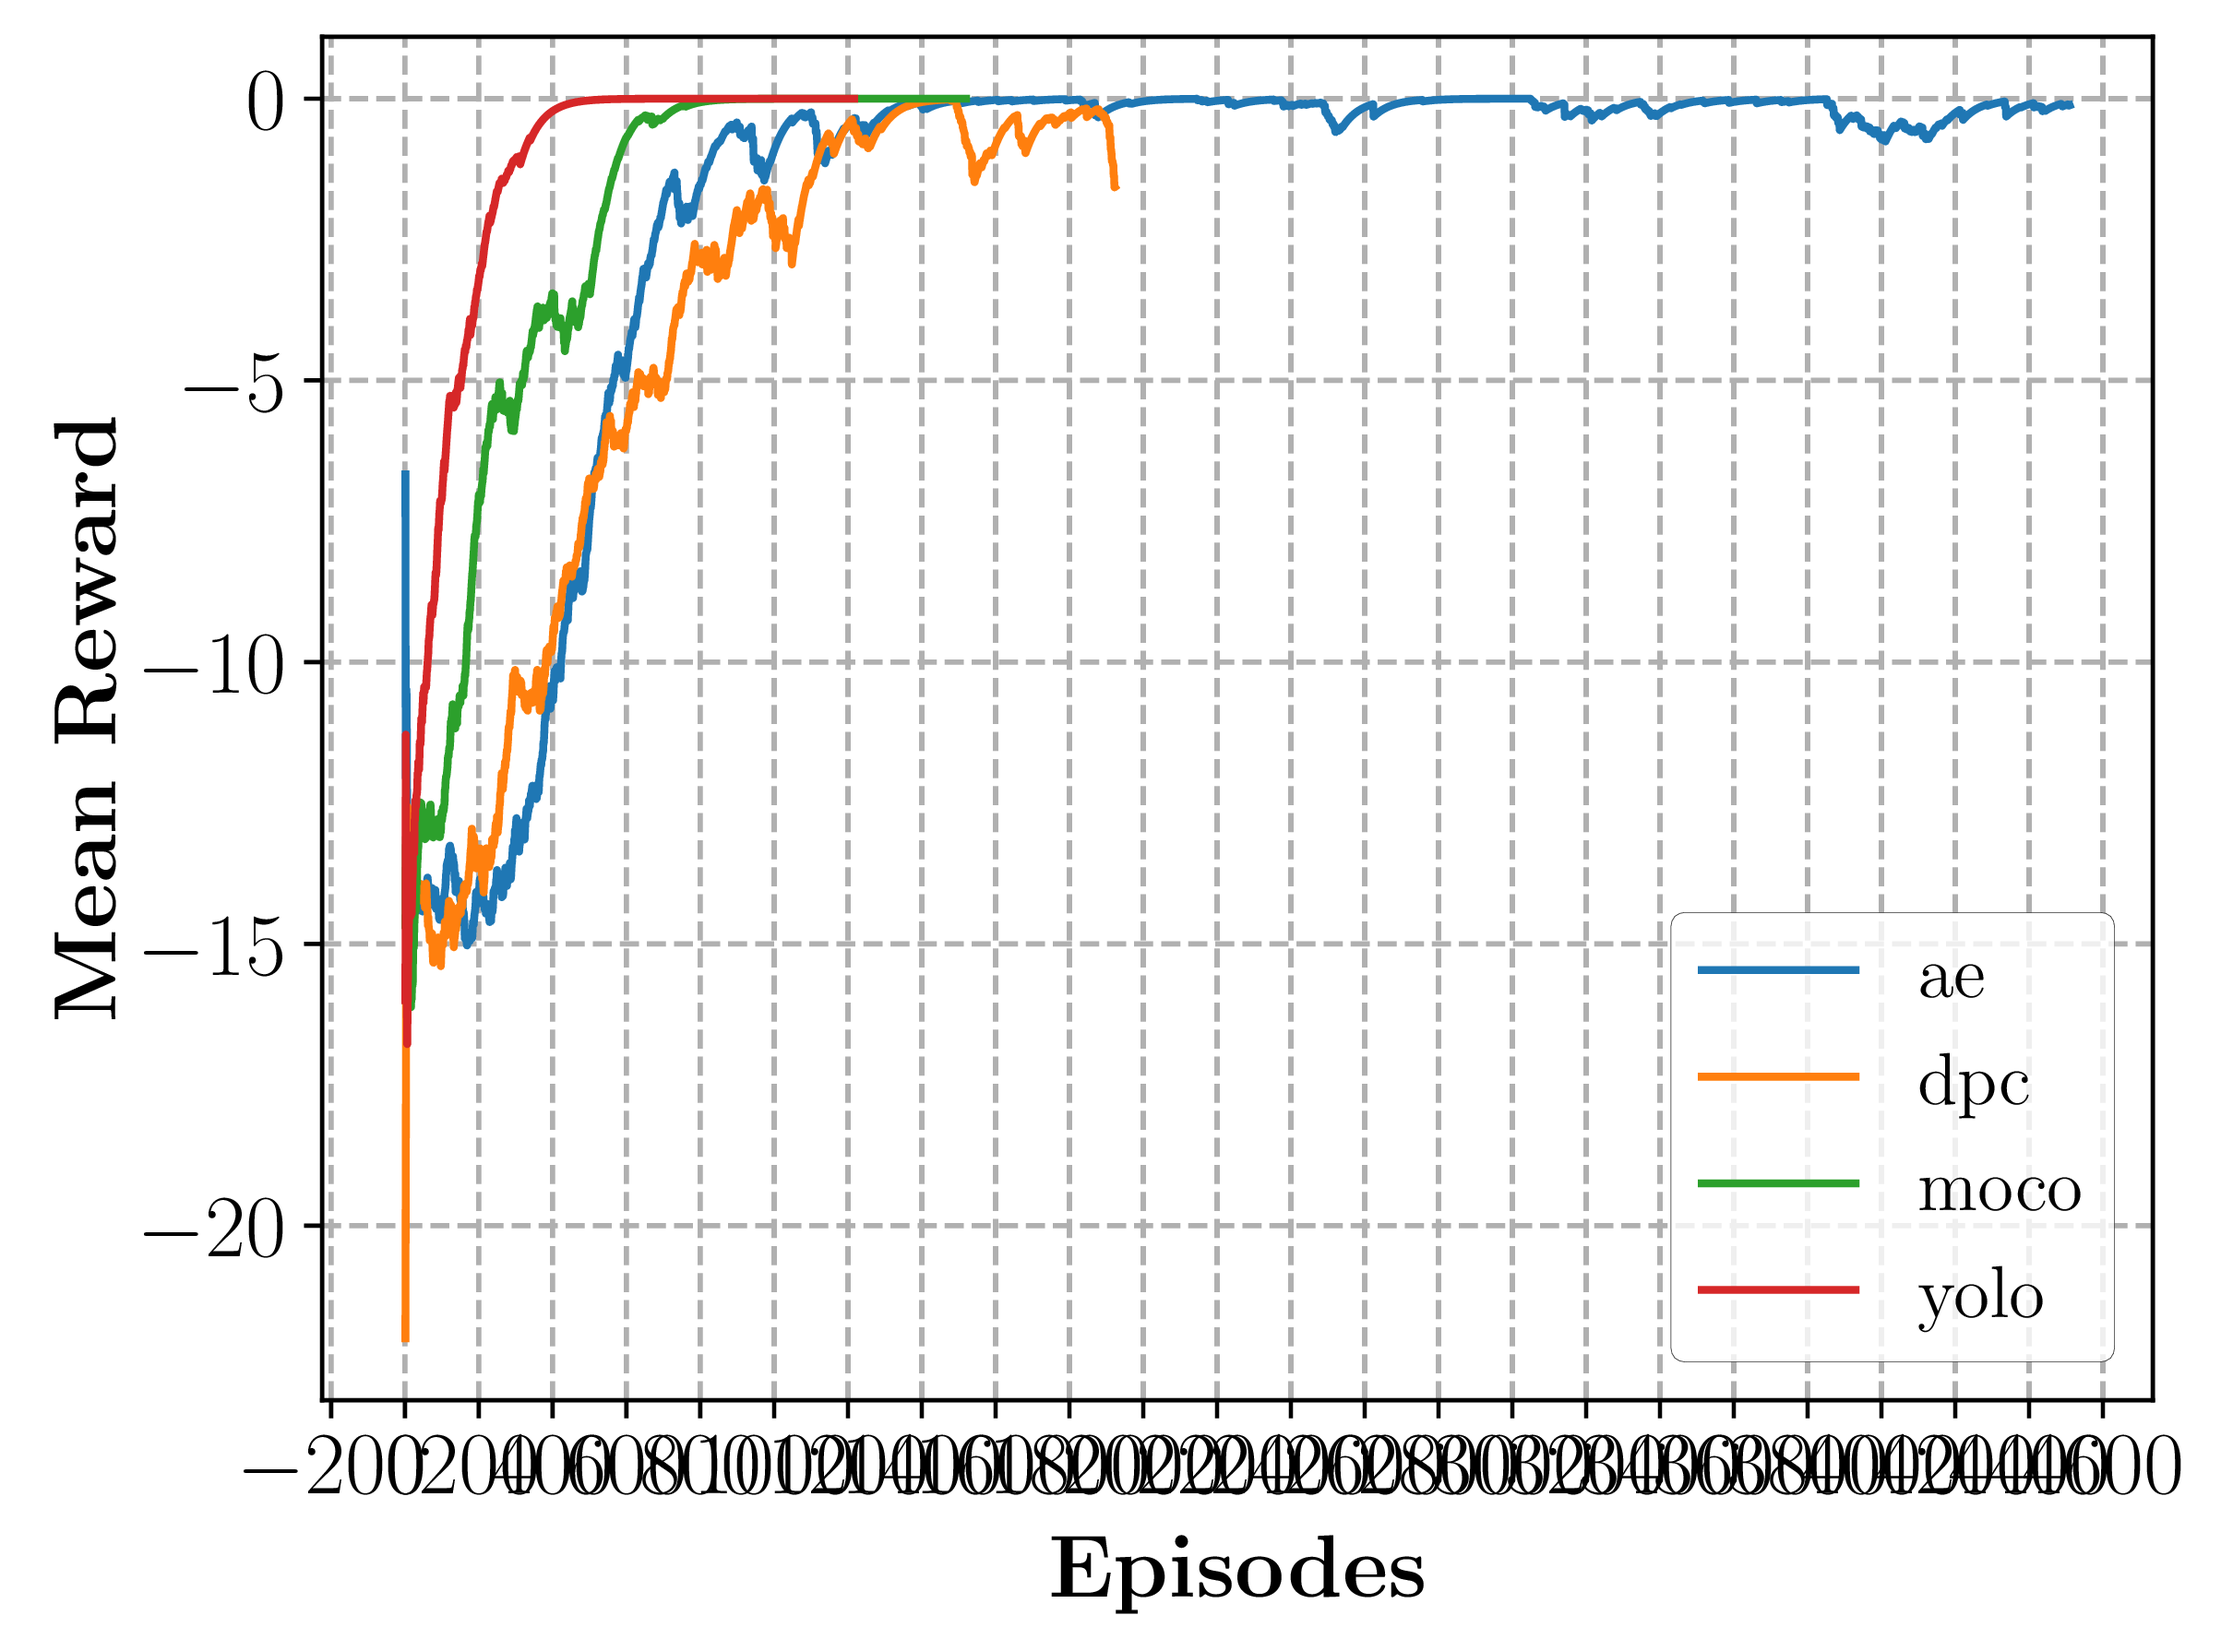
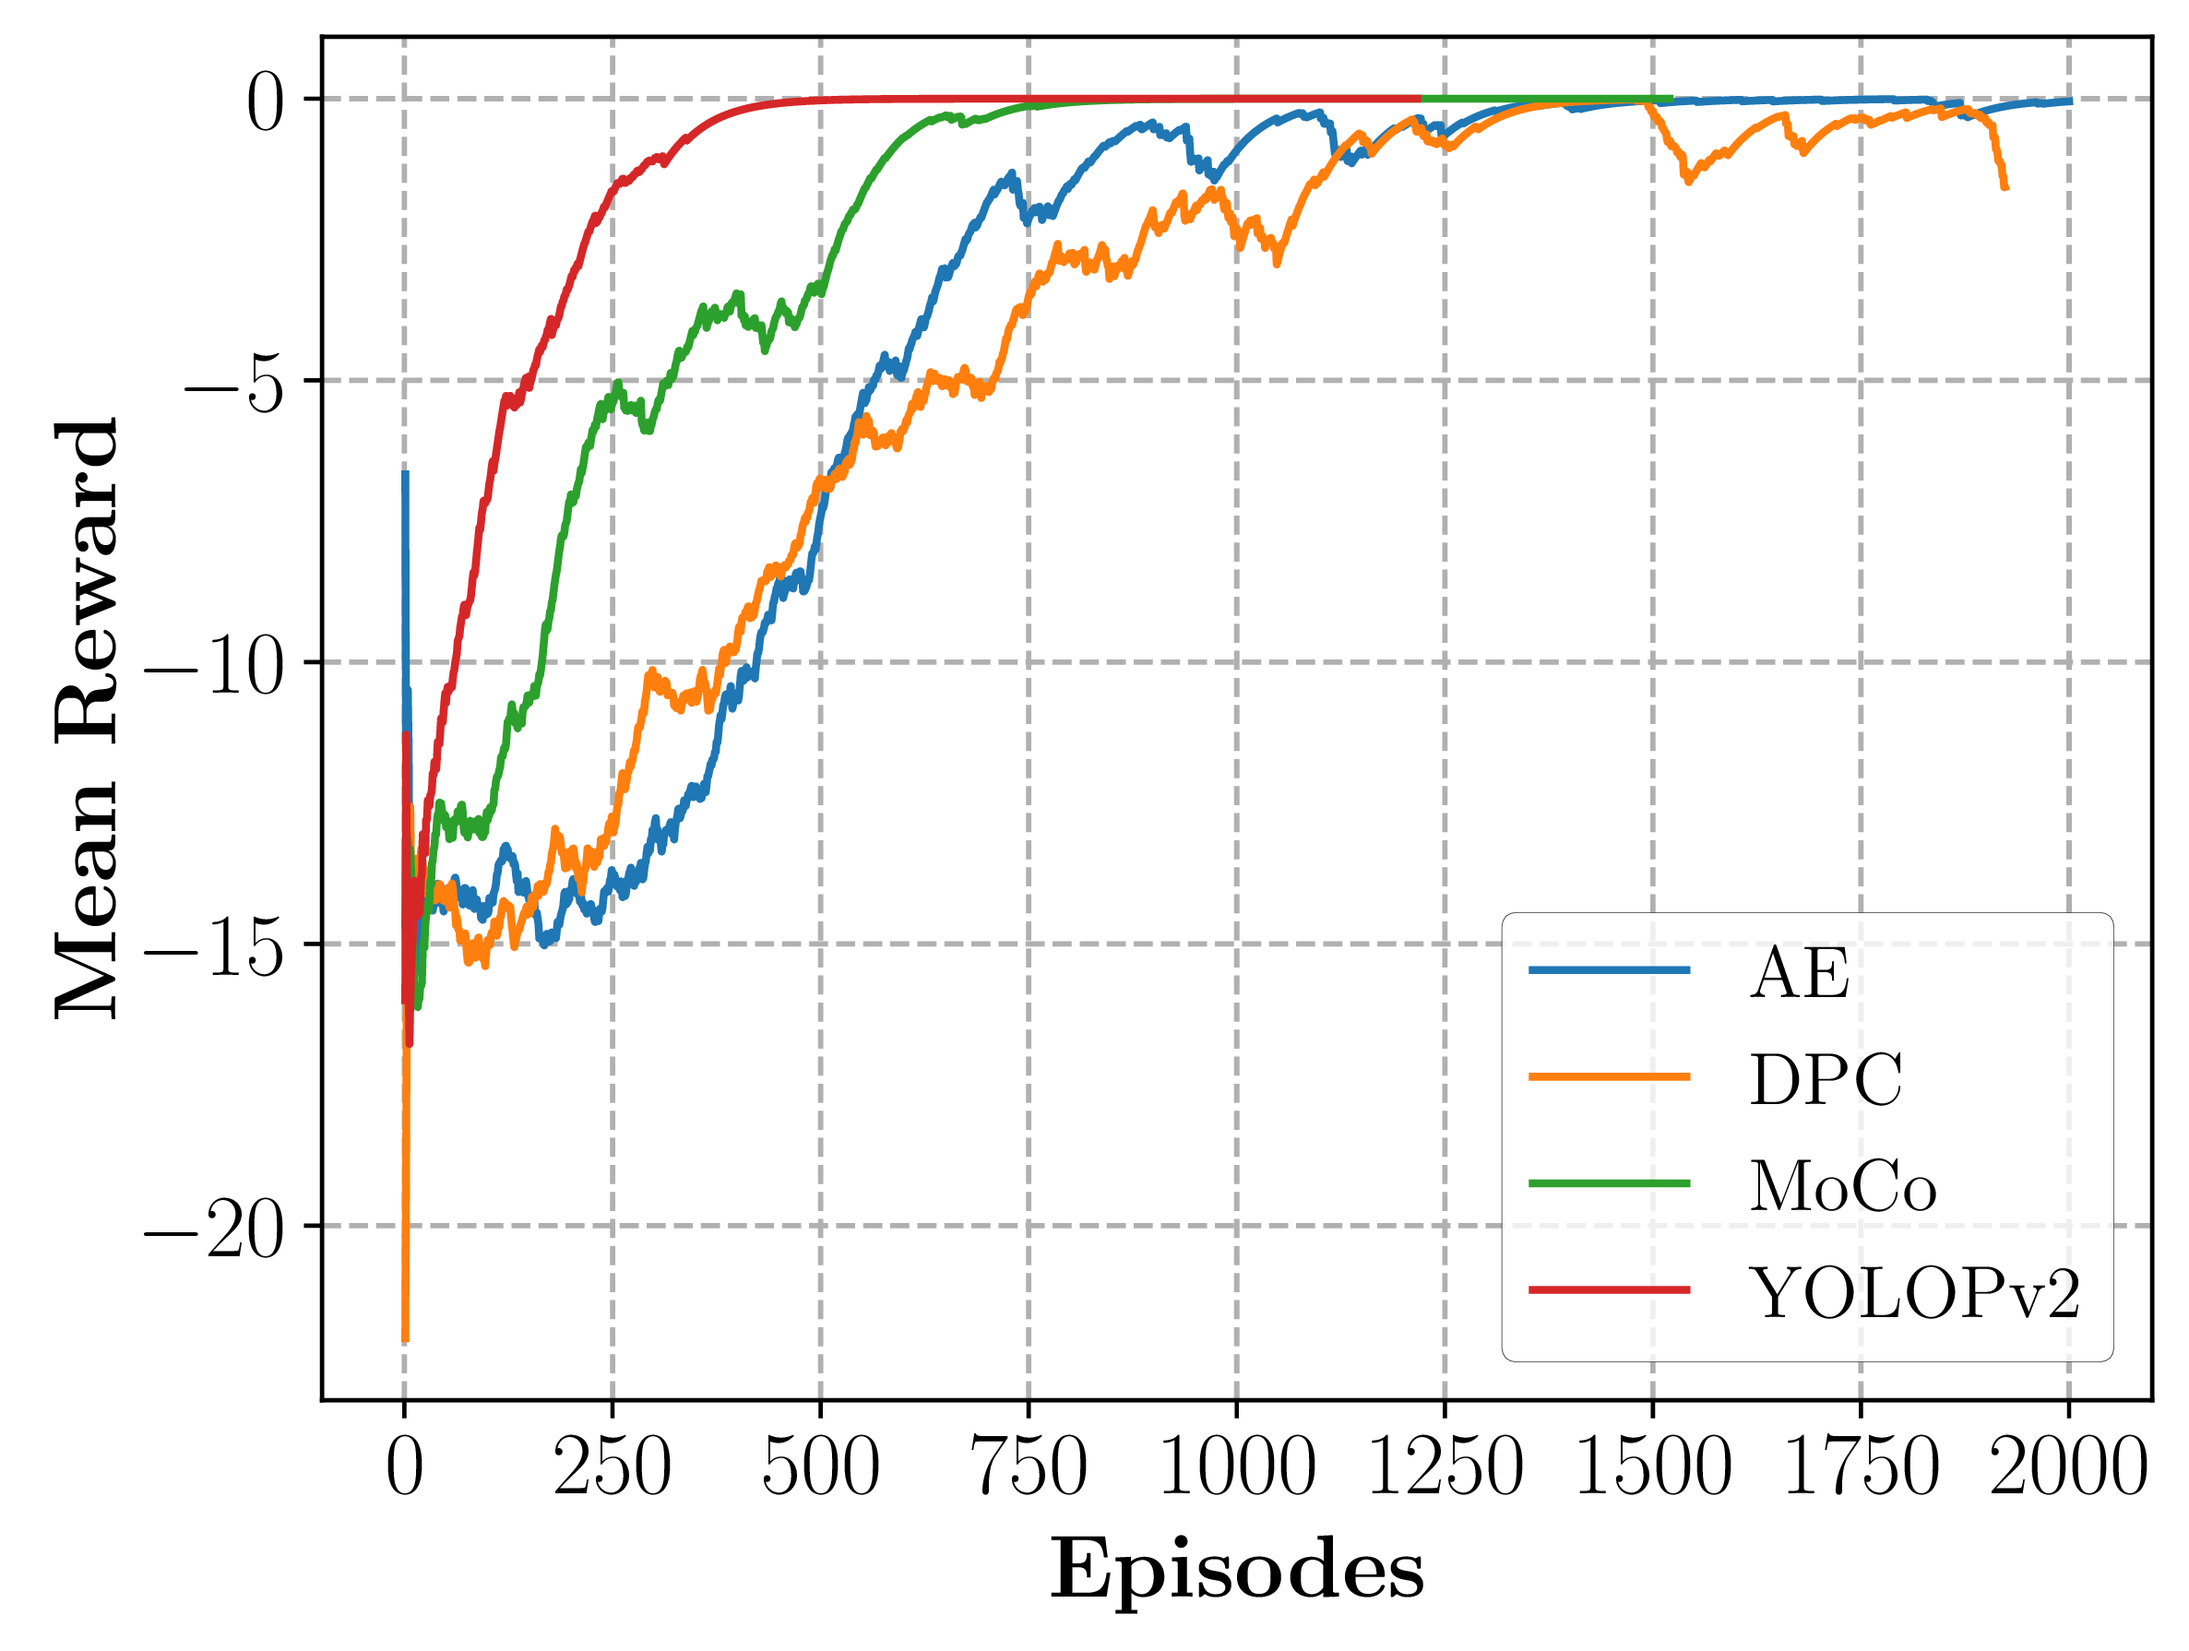
update plots

diff --git a/NIPS/plot.py b/NIPS/plot.py
@@ -40,10 +40,10 @@ df_yolo = pd.read_csv(csv_yolo, sep=',')
 
 # Create a dictionary to store dfs with their correct name
 dict_df = {
-    'ae': df_ae,
-    'dpc': df_dpc,
-    'moco': df_moco,
-    'yolo': df_yolo,
+    'AE': df_ae,
+    'DPC': df_dpc,
+    'MoCo': df_moco,
+    'YOLOPv2': df_yolo,
 }
 
 
@@ -113,7 +113,7 @@ leg = ax.legend(fontsize=15)
 leg.get_frame().set_edgecolor('k')
 leg.get_frame().set_linewidth(0.1)
 
-tick_spacing = 200 # 250 for IL test
+tick_spacing = 250 # 250 for IL test
 
 ax.xaxis.set_major_locator(ticker.MultipleLocator(tick_spacing))
 #ax.yaxis.set_major_locator(ticker.MultipleLocator(tick_spacing))
@@ -135,17 +135,17 @@ for key, df in dict_df.items():
 
 # set labels (LaTeX can be used)
 #plt.title(r'\textbf{Number of Incorrect Lane Changes for Carla Experiment}', fontsize=11)
-ax.set_xlabel(r'\textbf{Episodes}', fontsize=15)
-ax.set_ylabel(r'\textbf{Lane Invasions}', fontsize=15)
+ax.set_xlabel(r'\textbf{Episodes}', fontsize=18)
+ax.set_ylabel(r'\textbf{Lane Invasions}', fontsize=18)
 ax.grid(linestyle='--', linewidth=1)
-plt.xticks(fontsize=15)
-plt.yticks(fontsize=15)
+plt.xticks(fontsize=16)
+plt.yticks(fontsize=16)
 
 leg = ax.legend(fontsize=15)
 leg.get_frame().set_edgecolor('k')
 leg.get_frame().set_linewidth(0.1)
 
-tick_spacing = 200 # 1000 for 3 configs # 250 for IL test
+tick_spacing = 250 # 1000 for 3 configs # 250 for IL test
 
 ax.xaxis.set_major_locator(ticker.MultipleLocator(tick_spacing))
 #ax.yaxis.set_major_locator(ticker.MultipleLocator(tick_spacing))
@@ -174,41 +174,12 @@ leg = ax.legend(fontsize=15)#, loc='lower right')
 leg.get_frame().set_edgecolor('k')
 leg.get_frame().set_linewidth(0.1)
 
-tick_spacing = 200
+tick_spacing = 250
 
 ax.xaxis.set_major_locator(ticker.MultipleLocator(tick_spacing))
 #ax.yaxis.set_major_locator(ticker.MultipleLocator(tick_spacing))
 
 fig.savefig(OUTPUT_DIR +'steps.png', dpi=400, bbox_inches="tight")
 
-
-
-# %%
-# Plot delta acceleration ---------------------------------------
-
-fig, ax = plt.subplots(1, 1)
-
-for key, df in dict_df.items():
-    ax.plot('episode', 'delta_acceleration_ema', data=df, label=key)
-
-# set labels (LaTeX can be used)
-#plt.title(r'\textbf{Cumulative Reward for Carla Experiment}', fontsize=11)
-
-ax.set_xlabel(r'\textbf{Episodes}', fontsize=18)
-ax.set_ylabel(r'\textbf{$ \Delta$Acceleration}', fontsize=18)
-ax.grid(linestyle='--', linewidth=1)
-plt.xticks(fontsize=12)
-plt.yticks(fontsize=12)
-
-leg = ax.legend(fontsize=12)
-leg.get_frame().set_edgecolor('k')
-leg.get_frame().set_linewidth(0.0)
-
-tick_spacing = 250
-
-ax.xaxis.set_major_locator(ticker.MultipleLocator(tick_spacing))
-#ax.yaxis.set_major_locator(ticker.MultipleLocator(tick_spacing))
-
-fig.savefig(OUTPUT_DIR + 'delta_acceleration.png', dpi=400, bbox_inches="tight")
 
 # %%
